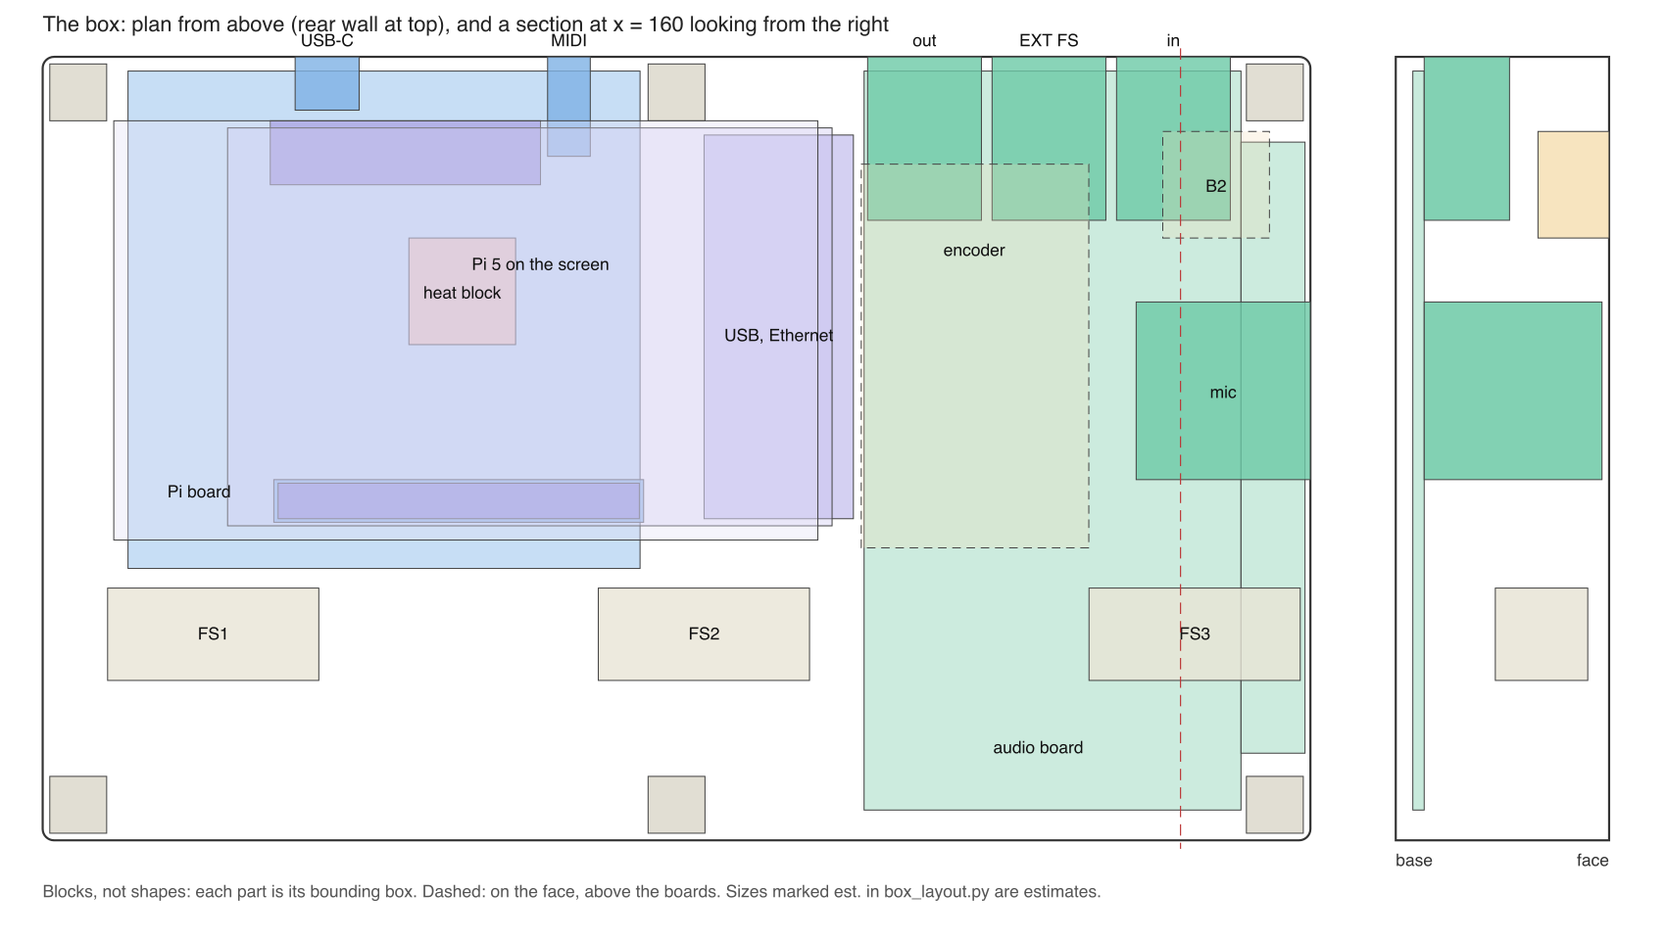
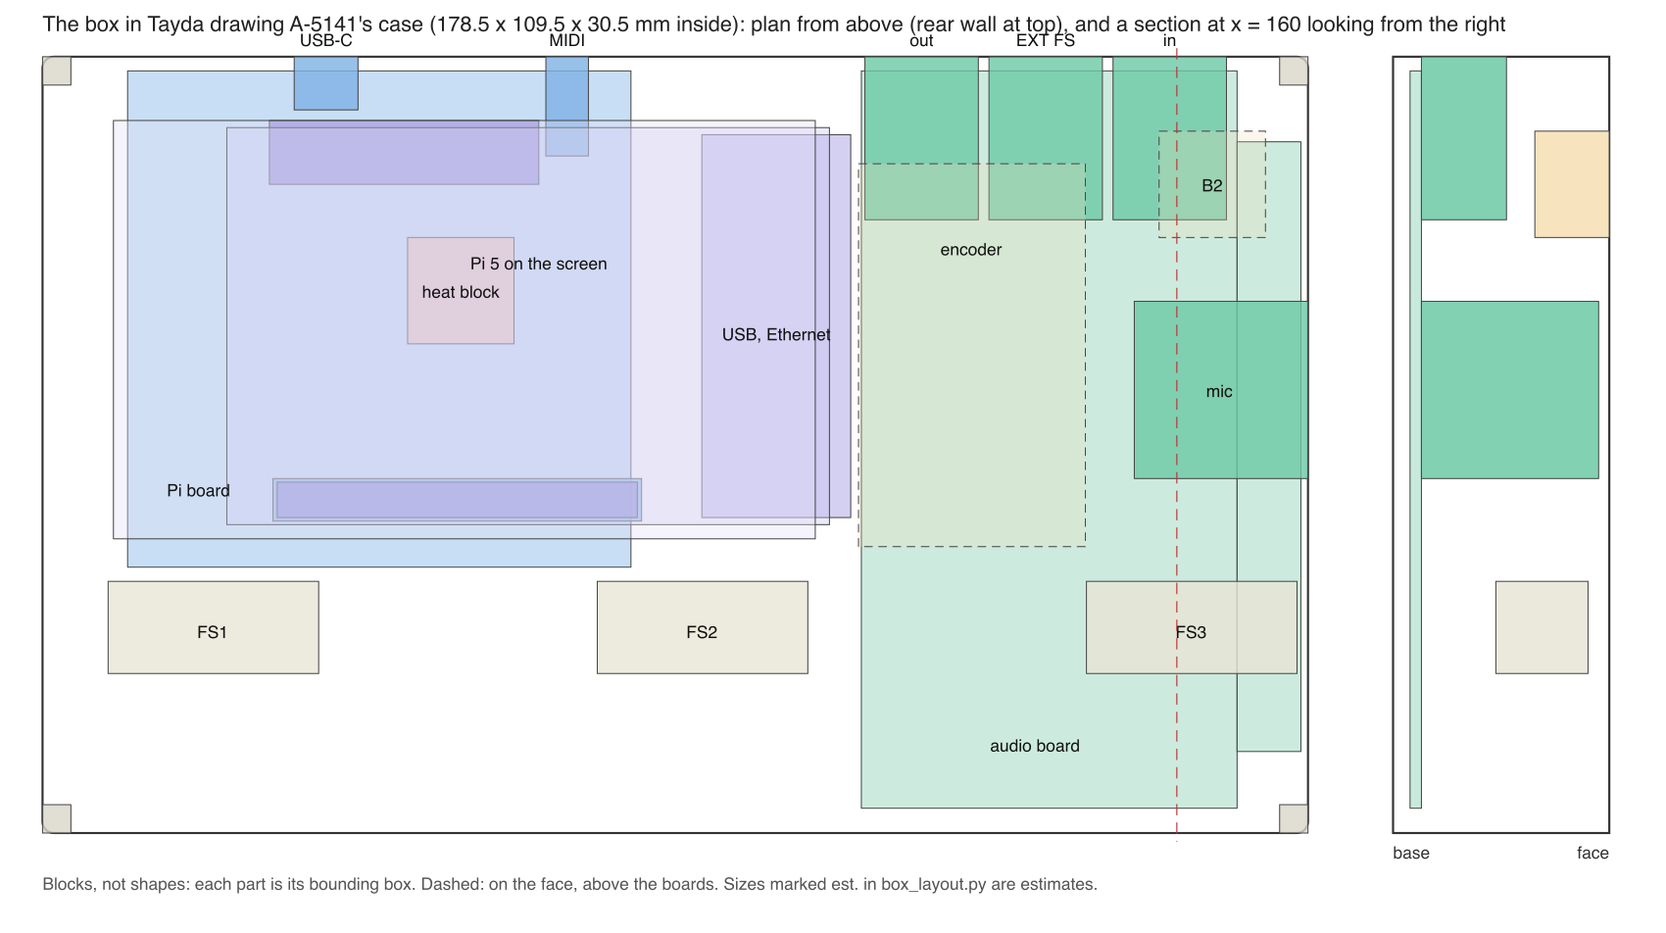
box: check the layout in Hammond's and Tayda's 1590DD, from their drawings
Hammond's is 32.0 mm inside with a 2.5 mm wall; Tayda's is 30.5 mm with
2.2 mm. The mic socket's 3 mm wall limit is met in both, and the layout
has no collisions in either or in the prototype as measured. The heat
section gains the temperatures already in bench-results: 68-72 C in the
box on 2026-11-07.

diff --git a/enclosure/src/box_layout.py b/enclosure/src/box_layout.py
@@ -6,10 +6,13 @@ rear inside wall toward the player, z up from the base plate.  The script checks
 two blocks share space unless the pair is listed as meant to (a socket on its board), prints
 the smallest clearances, and draws a plan and a section.
 
-    python3 enclosure/src/box_layout.py            # check, report, write the SVG
+    python3 enclosure/src/box_layout.py            # check every case, write the SVG
+    python3 enclosure/src/box_layout.py hammond    # one case, and draw that one
     rsvg-convert -w 1700 docs/diagrams/box-layout.svg -o docs/diagrams/box-layout.png
 
-It exits non-zero if anything collides.  Numbers marked "est." are estimates to be replaced
+"1590DD" is not one case.  Hammond's and Tayda's differ in depth, wall, width and pillars, so
+the layout is checked in each maker's drawing (CASES) and in the owner's measured prototype.
+It exits non-zero if anything collides in any of them.  Numbers marked "est." are estimates to be replaced
 from the maker's drawing when the part is chosen; the rest are from the drawings named beside
 them or from the owner's measurements of 2026-11-14.  No third-party Python is needed.
 """
@@ -19,9 +22,27 @@ from __future__ import annotations
 import os
 import sys
 
-W, D, H = 178.26, 110.26, 30.0     # inside; H measured by the owner
-CX = W / 2
+# Inside sizes at the face (the tub's floor, the narrow end of the draft), in mm.
+#   tayda:   drawing A-5141 "1590DD", 2024-06-06: inside height 30.5, floor 2.5, wall 2.2.
+#            Length and width are its outside sizes at the floor (182.9, 113.9) less two walls.
+#            Four screws, in the corners; the bosses reach 3.75 mm in (171 and 102 between them).
+#   hammond: drawing 1590DD: inside 179.26 x 112.26 x 32.00, wall and floor 2.50.  Six screws
+#            on 178 x 110 (and the middle of the long sides); the bosses' reach is est. from
+#            the 101.07 between the middle pair.
+#   prototype: the owner's case as measured, 2026-11-14, with the pillars as first modelled.
+CASES = {
+    "tayda": dict(W=178.5, D=109.5, H=30.5, wall=2.2, mid=False, half=0.0, reach=(4.0, 4.0),
+                  source="Tayda drawing A-5141"),
+    "hammond": dict(W=179.26, D=112.26, H=32.0, wall=2.5, mid=True, half=5.5, reach=(6.5, 7.0),
+                    source="Hammond drawing 1590DD"),
+    "prototype": dict(W=178.26, D=110.26, H=30.0, wall=2.3, mid=True, half=4.0, reach=(9.0, 9.0),
+                      source="the owner's measurements"),
+}
+DEFAULT = "tayda"                  # the shallowest drawing, and the case Tayda's service drills
+NEUTRIK_MAX_PANEL = 3.0            # NCJ6FA-H, drawing 20004521
 
+W = D = H = CX = 0.0
+CASE: dict = {}
 PARTS: list[dict] = []
 
 
@@ -30,66 +51,80 @@ def part(name, x0, x1, y0, y1, z0, z1, group, colour="#cccccc", note=""):
                       colour=colour, note=note))
 
 
-# --- the case -------------------------------------------------------------------
-for i, (px, py) in enumerate([(5, 5), (CX, 5), (W - 5, 5), (5, D - 5), (CX, D - 5),
-                              (W - 5, D - 5)]):
-    part(f"pillar {i + 1}", px - 4, px + 4, py - 4, py + 4, 0, H, "case", "#d9d5c8")
+def build(name):
+    """Fill PARTS for one case."""
+    global W, D, H, CX, CASE
+    CASE = CASES[name]
+    W, D, H, CX = CASE["W"], CASE["D"], CASE["H"], CASE["W"] / 2
+    PARTS.clear()
 
-# --- the screen and the Pi ---------------------------------------------------------
-# Window 99 x 59, 10 from the left, 9 from the rear (the owner).  The module's own outline
-# is not published, and it clears the corner pillars in the prototype, so only the window's
-# own area is modelled, 7 mm thick.
-part("screen module", 10, 109, 9, 68, 23, H, "pi", "#e3e0f7", "frame not modelled")
-# Pi 5, 85 x 56 (Raspberry Pi's mechanical drawing), component side down.  Its left end is
-# 26 mm from the left wall and its rear edge 10 mm from the rear wall, from the owner's
-# measurements of the header plug.  Its board is 13 mm below the face (screen 7 + standoff 6).
-PIX, PIY, PI_Z = 26.0, 10.0, H - 13.0 - 1.6          # PI_Z: the component face, 15.4
-part("Pi 5 board", PIX, PIX + 85, PIY, PIY + 56, PI_Z, PI_Z + 1.6, "pi", "#c9c4ee")
-part("Pi USB and Ethernet", PIX + 67, PIX + 88, PIY + 1, PIY + 55, 0.0, PI_Z, "pi",
-     "#c9c4ee", "fills the depth; 3 mm past the board's end")
-part("Pi header pins", PIX + 7.1, PIX + 57.9, PIY + 50, PIY + 55, PI_Z - 8.5, PI_Z, "pi",
-     "#8f88d8")
-part("Pi power and HDMI sockets", PIX + 6, PIX + 44, PIY - 1, PIY + 8, PI_Z - 3.4, PI_Z,
-     "pi", "#8f88d8")
-SOC = (PIX + 33.0, PIY + 23.0)                        # est. from the drawing
-part("heat block", SOC[0] - 7.5, SOC[0] + 7.5, SOC[1] - 7.5, SOC[1] + 7.5, 0.0, PI_Z - 2.4,
-     "heat", "#f3c2b0", "on the base plate, pad on top; position est.")
+    # --- the case -------------------------------------------------------------------
+    rx, ry = CASE["reach"]
+    hw = CASE["half"]                                  # the middle pillars' half-width, est.
+    spots = [(0, rx, 0), (CX - hw, CX + hw, 0), (W - rx, W, 0),
+             (0, rx, 1), (CX - hw, CX + hw, 1), (W - rx, W, 1)]
+    for i, (x0, x1, front) in enumerate(spots):
+        if i in (1, 4) and not CASE["mid"]:
+            continue
+        y0, y1 = (D - ry, D) if front else (0, ry)
+        part(f"pillar {i + 1}", x0, x1, y0, y1, 0, H, "case", "#d9d5c8")
 
-# --- the Pi board (a HAT on the Pi's header) ---------------------------------------
-PB_TOP = PI_Z - 11.0                                   # 4.4: a HAT sits 11 mm from the Pi
-part("Pi board", 12, 84, 2, 72, PB_TOP - 1.6, PB_TOP, "piboard", "#b9d6f2",
-     "cut out around the heat block")
-part("Pi board header socket", PIX + 6.5, PIX + 58.5, PIY + 49.5, PIY + 55.5, PB_TOP,
-     PI_Z - 8.5 + 6.0, "piboard", "#7fb2e5")
-part("USB-C power socket", 35.5, 44.5, 0, 7.5, PB_TOP, PB_TOP + 3.3, "piboard", "#7fb2e5")
-part("MIDI socket (3.5 mm)", 71, 77, 0, 14, PB_TOP, PB_TOP + 5.0, "piboard", "#7fb2e5",
-     "est.")
+    # --- the screen and the Pi ---------------------------------------------------------
+    # Window 99 x 59, 10 from the left, 9 from the rear (the owner).  The module's own outline
+    # is not published, and it clears the corner pillars in the prototype, so only the window's
+    # own area is modelled, 7 mm thick.
+    part("screen module", 10, 109, 9, 68, 23, H, "pi", "#e3e0f7", "frame not modelled")
+    # Pi 5, 85 x 56 (Raspberry Pi's mechanical drawing), component side down.  Its left end is
+    # 26 mm from the left wall and its rear edge 10 mm from the rear wall, from the owner's
+    # measurements of the header plug.  Its board is 13 mm below the face (screen 7 + standoff 6).
+    PIX, PIY, PI_Z = 26.0, 10.0, H - 13.0 - 1.6          # PI_Z: the Pi's component face
+    part("Pi 5 board", PIX, PIX + 85, PIY, PIY + 56, PI_Z, PI_Z + 1.6, "pi", "#c9c4ee")
+    part("Pi USB and Ethernet", PIX + 67, PIX + 88, PIY + 1, PIY + 55, 0.0, PI_Z, "pi",
+         "#c9c4ee", "fills the depth; 3 mm past the board's end")
+    part("Pi header pins", PIX + 7.1, PIX + 57.9, PIY + 50, PIY + 55, PI_Z - 8.5, PI_Z, "pi",
+         "#8f88d8")
+    part("Pi power and HDMI sockets", PIX + 6, PIX + 44, PIY - 1, PIY + 8, PI_Z - 3.4, PI_Z,
+         "pi", "#8f88d8")
+    SOC = (PIX + 33.0, PIY + 23.0)                        # est. from the drawing
+    part("heat block", SOC[0] - 7.5, SOC[0] + 7.5, SOC[1] - 7.5, SOC[1] + 7.5, 0.0, PI_Z - 2.4,
+         "heat", "#f3c2b0", "on the base plate, pad on top; position est.")
 
-# --- the audio board -----------------------------------------------------------------
-AB_TOP = 4.0
-part("audio board", 115.5, 168.5, 2, 106, AB_TOP - 1.6, AB_TOP, "audio", "#bfe6d6")
-part("audio board, mic tongue", 168.5, 177.5, 12, 98, AB_TOP - 1.6, AB_TOP, "audio",
-     "#bfe6d6")
-# 1/4-inch sockets: est. 16 wide, 12 tall, 23 behind the wall (Neutrik NMJ6HFD2's model).
-for name, cx in (("out socket", 124.0), ("EXT FS socket", 141.5), ("guitar in socket", 159.0)):
-    part(name, cx - 8, cx + 8, 0, 23, AB_TOP, AB_TOP + 12.0, "audio", "#6cc9a6", "size est.")
-# Neutrik NCJ6FA-H (drawing 20004521): 25 x 25 behind the wall, 24.5 deep, its centre
-# 12.5 above the board, pins 3.5 below the body.
-MIC_Y = 47.0
-part("mic combo socket", W - 24.5, W, MIC_Y - 12.5, MIC_Y + 12.5, AB_TOP, AB_TOP + 25.0,
-     "audio", "#6cc9a6", "Neutrik NCJ6FA-H")
+    # --- the Pi board (a HAT on the Pi's header) ---------------------------------------
+    PB_TOP = PI_Z - 11.0                                   # a HAT sits 11 mm from the Pi
+    part("Pi board", 12, 83, 2, 72, PB_TOP - 1.6, PB_TOP, "piboard", "#b9d6f2",
+         "cut out around the heat block")
+    part("Pi board header socket", PIX + 6.5, PIX + 58.5, PIY + 49.5, PIY + 55.5, PB_TOP,
+         PI_Z - 8.5 + 6.0, "piboard", "#7fb2e5")
+    part("USB-C power socket", 35.5, 44.5, 0, 7.5, PB_TOP, PB_TOP + 3.3, "piboard", "#7fb2e5")
+    part("MIDI socket (3.5 mm)", 71, 77, 0, 14, PB_TOP, PB_TOP + 5.0, "piboard", "#7fb2e5",
+         "est.")
 
-# --- the footswitches (the owner's part: 13 x 13 body, 29.7 with lugs, sunk 16 mm) -----
-for i, fx in enumerate((CX - 69, CX, CX + 69)):
-    part(f"footswitch {i + 1}", fx - 11, fx + 18.7, D - 29 - 6.5, D - 29 + 6.5, H - 16.0,
-         H - 3.0, "fs", "#e8e4d6", "13 mm body with its top 3 mm below the face; lugs sideways")
+    # --- the audio board -----------------------------------------------------------------
+    AB_TOP = 4.0
+    part("audio board", 115.5, 168.5, 2, 106, AB_TOP - 1.6, AB_TOP, "audio", "#bfe6d6")
+    part("audio board, mic tongue", 168.5, 177.5, 12, 98, AB_TOP - 1.6, AB_TOP, "audio",
+         "#bfe6d6")
+    # 1/4-inch sockets: est. 16 wide, 12 tall, 23 behind the wall (Neutrik NMJ6HFD2's model).
+    for name, cx in (("out socket", 124.0), ("EXT FS socket", 141.5), ("guitar in socket", 159.0)):
+        part(name, cx - 8, cx + 8, 0, 23, AB_TOP, AB_TOP + 12.0, "audio", "#6cc9a6", "size est.")
+    # Neutrik NCJ6FA-H (drawing 20004521): 25 x 25 behind the wall, 24.5 deep, its centre
+    # 12.5 above the board, pins 3.5 below the body.
+    MIC_Y = 47.0
+    part("mic combo socket", W - 24.5, W, MIC_Y - 12.5, MIC_Y + 12.5, AB_TOP, AB_TOP + 25.0,
+         "audio", "#6cc9a6", "Neutrik NCJ6FA-H")
 
-# --- the controls on the face -------------------------------------------------------
-ENC = (131.1, 27.1)                                    # the owner's position
-part("control board and encoder", ENC[0] - 16, ENC[0] + 16, ENC[1] - 12, ENC[1] + 42,
-     20.4, H, "control", "#f6dfb4", "board at z 21.9, EC11 body above it; est.")
-part("button 2", 157.5, 172.5, 10.5, 25.5, 20.0, H, "control", "#f6dfb4",
-     "10 mm deep; above the guitar socket")
+    # --- the footswitches (the owner's part: 13 x 13 body, 29.7 with lugs, sunk 16 mm) -----
+    for i, fx in enumerate((CX - 69, CX, CX + 69)):
+        part(f"footswitch {i + 1}", fx - 11, fx + 18.7, D - 29 - 6.5, D - 29 + 6.5, H - 16.0,
+             H - 3.0, "fs", "#e8e4d6", "13 mm body with its top 3 mm below the face; lugs sideways")
+
+    # --- the controls on the face -------------------------------------------------------
+    ENC = (131.1, 27.1)                                    # the owner's position
+    part("control board and encoder", ENC[0] - 16, ENC[0] + 16, ENC[1] - 12, ENC[1] + 42,
+         20.4, H, "control", "#f6dfb4", "board at z 21.9, EC11 body above it; est.")
+    part("button 2", 157.5, 172.5, 10.5, 25.5, 20.0, H, "control", "#f6dfb4",
+         "10 mm deep; above the guitar socket")
+
 
 # Pairs that are meant to touch or pass through each other.
 ALLOWED = {
@@ -145,7 +180,8 @@ def svg():
     o = [f'<svg xmlns="http://www.w3.org/2000/svg" width="{n(width)}" height="{n(height)}" '
          f'viewBox="0 0 {n(width)} {n(height)}" font-family="Helvetica, Arial, sans-serif">',
          f'<rect width="{n(width)}" height="{n(height)}" fill="#fff"/>',
-         f'<text x="{ox}" y="22" font-size="15" fill="#222">The box: plan from above '
+         f'<text x="{ox}" y="22" font-size="15" fill="#222">The box in {CASE["source"]}\'s '
+         f'case ({n(W)} x {n(D)} x {n(H)} mm inside): plan from above '
          f'(rear wall at top), and a section at x = 160 looking from the right</text>',
          f'<rect x="{ox}" y="{oy}" width="{n(W * S)}" height="{n(D * S)}" rx="8" fill="none" '
          f'stroke="#333" stroke-width="1.5"/>']
@@ -191,26 +227,39 @@ def svg():
     return "\n".join(o)
 
 
-def main():
+def report(name):
+    build(name)
     hits, near = check()
     out = inside()
-    print(f"{len(PARTS)} parts in a {W} x {D} x {H} mm case")
-    for name in out:
-        print(f"OUTSIDE THE CASE: {name}")
+    print(f"== {name}: {len(PARTS)} parts in {W} x {D} x {H} mm, wall {CASE['wall']} "
+          f"({CASE['source']})")
+    for part_name in out:
+        print(f"OUTSIDE THE CASE: {part_name}")
     for a, b, o in hits:
         print(f"COLLISION: {a} / {b}: overlap {o[0]:.1f} x {o[1]:.1f} x {o[2]:.1f} mm")
-    print("Tightest clearances (under 3 mm):")
+    if CASE["wall"] > NEUTRIK_MAX_PANEL:
+        print(f"WALL TOO THICK for the mic socket: {CASE['wall']} > {NEUTRIK_MAX_PANEL}")
+    print("  tightest clearances (under 3 mm):")
     for gap, a, b, axis in near:
-        print(f"  {gap:4.1f} mm in {axis}: {a} / {b}")
-    for name, z in (("mic combo socket", None), ("guitar in socket", None)):
-        p = next(q for q in PARTS if q["name"] == name)
-        print(f"{name}: z {p['z'][0]:.1f}-{p['z'][1]:.1f}, {H - p['z'][1]:.1f} mm below the face")
+        print(f"  {gap:5.1f} mm in {axis}: {a} / {b}")
+    for part_name in ("mic combo socket", "guitar in socket"):
+        p = next(q for q in PARTS if q["name"] == part_name)
+        print(f"  {part_name}: z {p['z'][0]:.1f}-{p['z'][1]:.1f}, "
+              f"{H - p['z'][1]:.1f} mm below the face")
+    return bool(hits or out or CASE["wall"] > NEUTRIK_MAX_PANEL)
+
+
+def main():
+    names = sys.argv[1:] or list(CASES)
+    bad = [name for name in names if report(name)]
+    drawn = names[0] if len(names) == 1 else DEFAULT
+    build(drawn)
     here = os.path.dirname(os.path.abspath(__file__))
     dst = os.path.join(here, "..", "..", "docs", "diagrams", "box-layout.svg")
     with open(dst, "w") as f:
         f.write(svg())
-    print("wrote", os.path.normpath(dst))
-    return 1 if hits or out else 0
+    print(f"wrote {os.path.normpath(dst)} ({drawn})")
+    return 1 if bad else 0
 
 
 if __name__ == "__main__":

diff --git a/docs/box-design.md b/docs/box-design.md
@@ -13,7 +13,8 @@ together.
 
 The picture is [diagrams/box-concept.png](diagrams/box-concept.png). Positions in this file are in
 the case layout's frame: x from the left inside wall, y from the rear inside wall, in mm, and z up
-from the base plate. The 1590DD is 178.26 × 110.26 mm inside and 30 mm deep (measured).
+from the base plate. The case's sizes are in "Which 1590DD" below: there are two, and the
+layout is checked in both.
 
 ## What it is
 
@@ -116,6 +117,28 @@ decision and the bought extension lead, which is also a plug-in part. The owner 
 The analogue supplies stay as pedal-codec's design has them: from the 5 V through a load switch,
 filter and low-noise regulators, on the audio board.
 
+## Which 1590DD
+
+"1590DD" is two different cases, from the makers' own drawings:
+
+| | Hammond 1590DD | Tayda 1590DD (A-5141) | The prototype, measured |
+|---|---|---|---|
+| Outside, with lid | 188 × 120 × 37 mm | 190.5 × 121.5 × 37.4 mm (listed as 188 × 119 × 37.5) | recorded as 188 × 119 × 37.5 |
+| Inside height | **32.0 mm** | **30.5 mm** | 30 mm |
+| Wall | **2.5 mm**, the same at both ends: the draft is on both faces | **2.2 mm** | about 2.3 mm (the owner) |
+| Inside at the face | 179.26 × 112.26 mm | 178.5 × 109.5 mm (its outside at the floor less two walls) | 178.26 × 110.26 mm |
+| Lid screws | six: the corners and the middle of each long side | four, in the corners | six pillars |
+
+So the wall is 2.5 mm at most in either, and Neutrik's 3 mm limit for the mic socket is met. The
+walls do not thicken toward the face, as an earlier note here said.
+
+The prototype's depth and wall match Tayda's drawing; its six pillars match Hammond's. Which it is
+does not change the design, because **the layout has to fit the shallower one anyway**: Tayda's
+drilling service drills Tayda's case, and that is the first route to a made case. Hammond's is
+1.5 mm deeper and its middle pillars come 7 mm in from the long walls, so the layout is checked in
+both. A design that needs 30.0 mm also allows for Tayda's stated 1 mm tolerance against its
+drawing.
+
 ## Heat
 
 The Pi's processor faces the base plate, 13.5 mm above it. **Proposed:** an aluminium block on the
@@ -125,7 +148,22 @@ roughly 15–20 °C over the room by a first estimate. Bought fanless aluminium 
 smaller, are reported to hold a fully loaded Pi 5 at about 60–77 °C. No fan means no vents, no
 dust, no fan noise in the room or on the supply, and two fewer things to cut.
 
-That estimate is not a measurement. **The test** is on the prototype, before anything else is
+**What is already measured** (vip, `bench-results/`):
+
+| When | Where | Load | Temperature |
+|---|---|---|---|
+| 2026-10-08 | before the box | an hour's playing through the codec | 53.8–58.2 °C |
+| 2026-10-10 | before the box | a heavy rig, five ten-minute arms (the rigpa soak) | 56.5–63.7 °C |
+| 2026-10-10 | before the box | every render core full (T11) | 80.4 °C |
+| 2026-11-07 | **in the box** | a heavy rig from the same harness, five ten-minute arms (the compact-layout soak) | **68.1–71.9 °C** |
+
+Never throttled in any of them, and the clock stayed at 2400 MHz. So the box, as it was on
+7 November with no vents, costs about 10 °C over October's set-up and sits about 10 °C under the
+80 °C the test below asks for. The records do not say whether a cooler was fitted that night or
+whether the base was on; that is worth a line when the test is run. This is the baseline the
+block has to beat, so no new baseline run is needed.
+
+The estimate above is not a measurement. **The test** is on the prototype, before anything else is
 designed: a block and a pad between the processor and the base plate, the case closed, the engine
 running a heavy rig for an hour, the temperature logged. If it stays well under 80 °C, the design
 is sealed. If not, a 30 mm fan on the Pi's fan header and a row of round vent holes in the rear
@@ -182,40 +220,41 @@ Also his: the footswitches stay where the case drawing has them, sunk 16 mm.
 
 ## The model so far
 
-`enclosure/src/box_layout.py` holds every part as a block and checks that none share space;
-[diagrams/box-layout.png](diagrams/box-layout.png) is its plan and a section. First pass,
-2026-11-14: **27 parts, no collisions.** What it shows:
+`enclosure/src/box_layout.py` holds every part as a block and checks that none share space, in
+Hammond's case, in Tayda's, and in the prototype as measured.
+[diagrams/box-layout.png](diagrams/box-layout.png) is its plan and a section, drawn in Tayda's.
+2026-11-14: **no collisions in any of the three.** What it shows:
 
-- **The mic socket fits, with 1 mm to spare.** Neutrik's NCJ6FA-H is 25 × 25 mm behind the wall
-  and 24.5 mm deep, with its centre 12.5 mm above its board (Neutrik drawing 20004521). With the
-  audio board's top 4.0 mm above the base plate, the socket's top is 1.0 mm below the face and
-  its pins end 0.5 mm above the base plate. So the audio board's height is set by this socket,
-  and the 30 mm depth must be right to within about half a millimetre.
+- **The mic socket fits.** Neutrik's NCJ6FA-H is 25 × 25 mm behind the wall and 24.5 mm deep,
+  with its centre 12.5 mm above its board (Neutrik drawing 20004521). With the audio board's top
+  4.0 mm above the base plate, its pins end 0.5 mm above the base plate and its top is 1.5 mm
+  below the face in Tayda's case, 3.0 mm in Hammond's, 1.0 mm at the measured 30 mm. The audio
+  board's height is set by this socket.
 - **Its cut-out is round**: a 22 mm hole and two 3.2 mm screw holes, which a drilling service
   can do.
-- **Its wall must be 3 mm thick or less** (Neutrik's limit, or the plug does not latch). A
-  1590DD's walls are die-cast with a taper and are thicker toward the face. This is not known
-  for this case and is the first thing to measure. If the wall is too thick there, the choices
-  are a recess milled around the hole (not a drilling-service job), or the mic socket as a panel
-  part on a bought lead.
-- **Three ¼″ sockets fit the rear wall, just.** At 17.5 mm apart they have 2 mm to the Pi's
-  Ethernet socket on one side and 2.3 mm to the corner pillar on the other, taking each as
-  16 mm wide (an estimate from Neutrik's model of the NMJ6HFD2). A slimmer socket would ease it.
-- **Above the rear sockets there is 14 mm** to the face, enough for the encoder, its board and
-  the second button.
-- **Under the footswitches there is 10 mm** above the audio board.
+- **Its wall is thin enough**: 2.2 or 2.5 mm against Neutrik's limit of 3 mm.
+- **Three ¼″ sockets fit the rear wall.** At 17.5 mm apart they have 2 mm to the Pi's Ethernet
+  socket, taking each as 16 mm wide (an estimate from Neutrik's model of the NMJ6HFD2). The
+  corner pillar is no longer a limit: by the drawings it reaches 4 mm in (Tayda) or about 6.5 mm
+  (Hammond), not the 9 mm first modelled. A slimmer socket would still ease the Ethernet side.
+- **The Pi board stops at x = 83**, which leaves 1.1 mm to Hammond's middle pillar. Tayda's
+  case has no middle pillars.
+- **Above the rear sockets there is 14 mm or more** to the face, enough for the encoder, its
+  board and the second button.
+- **Under the footswitches there is 10 mm or more** above the audio board.
 
 Still estimates in the model: the ¼″ and 3.5 mm sockets' sizes, the screen module's frame
-(Waveshare publish no outline), the processor's position on the Pi, and the pillars' exact size.
+(Waveshare publish no outline), the processor's position on the Pi, and Hammond's pillars' reach
+(taken from the 101.07 mm between its middle pair).
 
 ## Needed from the owner
 
-- **The wall's thickness** on the right-hand wall, about half-way up and 45–50 mm from the rear:
-  callipers across the wall, or the depth of a drilled hole.
-- **The inside depth again**, to half a millimetre if possible, near the right wall.
-- **For the heat test:** a piece of aluminium about 15 × 15 mm and 10–11 mm thick, and soft
-  thermal pad 2 mm thick, to fill the 13 mm between the Pi's processor and the base plate. With
-  vip switched on and reachable, the logging is run from a session.
+- **For the heat test only:** a piece of aluminium about 15 × 15 mm and 10–11 mm thick, and soft
+  thermal pad 2 mm thick, to fill the 13 mm between the Pi's processor and the base plate, and
+  vip switched on. The logging is run from a session.
+- **In passing, next time the case is open:** whose name is cast inside it. Tayda's has
+  "TAYDA ELECTRONICS 1590DD" under the lid; Hammond's has "HAMMOND 1590DD" in the box and the
+  lid. Nothing waits on this.
 
 ## Plan
 
@@ -239,6 +278,9 @@ case, the firmware and the device configuration are here.
 - [Tayda: enclosure drill service guide](https://www.taydaelectronics.com/enclosure-drill-service-guide),
   [UV printing service](https://m2.taydaelectronics.com/hardware/enclosures/enclosure-uv-printing-service.html)
 - [DigiKey: Hammond custom enclosures](https://www.digikey.com/en/supplier-centers/h/hammond-manufacturing/custom-enclosures) (the 25-piece minimum)
+- [Hammond: 1590DD drawing](https://www.hammfg.com/files/parts/pdf/1590DD.pdf),
+  [Tayda: 1590DD drawing A-5141](https://www.taydaelectronics.com/datasheets/files/TAYDA-A-5141.pdf)
+  and [its listing](https://www.taydaelectronics.com/hardware-tools/enclosures/1590dd-style/1590dd-style-aluminum-diecast-enclosure.html)
 - [JLCCNC: enclosure machining guide](https://jlccnc.com/blog/cnc-enclosure-guide)
 - [Raspberry Pi: heating and cooling Raspberry Pi 5](https://www.raspberrypi.com/news/heating-and-cooling-raspberry-pi-5/),
   [Akasa Pi-5 Pro review](https://bret.dk/akasa-pi-5-pro-raspberry-pi-5-case-review/),
